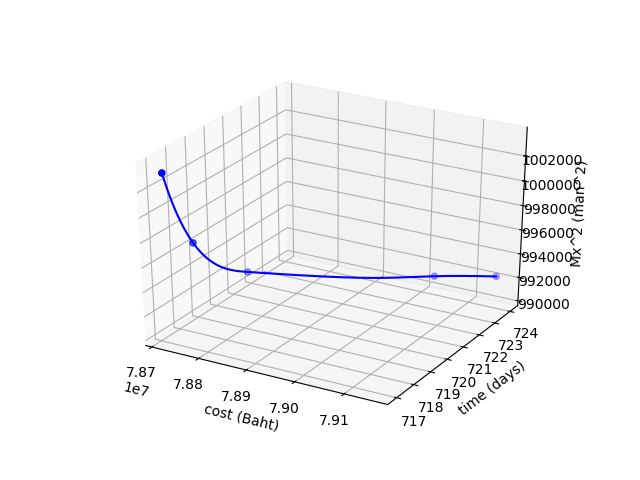
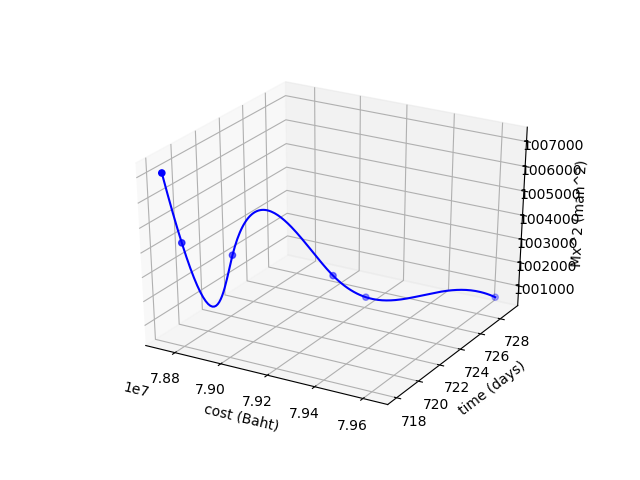
auto save score

Changed region(s): [[0.2188, 0.1875, 0.9062, 0.8125], [0.2188, 0.75, 0.5938, 0.9062], [0.6562, 0.6875, 0.8438, 0.875]]

diff --git a/Scheduling_Optimization_new.py b/Scheduling_Optimization_new.py
@@ -7,10 +7,10 @@ from timeit import default_timer as timer
 from scipy import interpolate
 
 # Set general parameters
-starting_population_size = 100
-maximum_generation = 10
-minimum_population_size = 80
-maximum_population_size = 100
+starting_population_size = 50
+maximum_generation = 2
+minimum_population_size = 30
+maximum_population_size = 50
 print_interval = 1
 fitness_based = True
 
@@ -94,8 +94,8 @@ def main():
     order = np.argsort(scores[:, 0])
     population = population[order]
     scores = scores[order]
-    for individual in population:
-        print(individual)
+    # for individual in population:
+    #     print(individual)
     for score in scores:
         print(score)
 
@@ -117,6 +117,8 @@ def main():
     ax.set_ylabel('time (days)')
     ax.set_zlabel('Mx^2 (man^2)')
     plt.savefig('pareto.png')
+    # np.savetxt('population.csv', population, delimiter=',', fmt='% 8d')
+    np.savetxt('scores.csv', scores, delimiter=',', fmt='% 8d')
 
     plt.show()
 

diff --git a/test3.py b/test3.py
@@ -3,6 +3,7 @@ scores = np.array(((79154978,724,1011454),(80212125,735,996754),(80019916,733,99
 # print(scores)
 scores = scores[np.argsort(scores[:, 1])]
 # print(abs(scores+scores)/2)
+np.savetxt('scores.csv', scores, delimiter=',', fmt='% 8d')
 fitness_1 = 0
 fitness_2 = 15
 parent_1 = np.array(((0,1),(1,1),(2,1),(3,1),(4,1),(5,1)))
